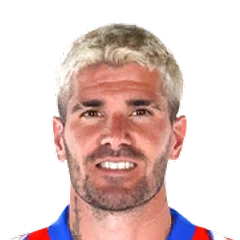
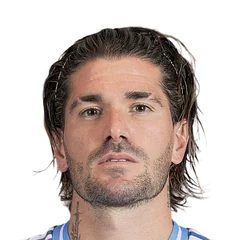
Cambios

diff --git a/index.html b/index.html
@@ -13,23 +13,264 @@
     <div class="hero-bg"></div>
     <div class="hero-content">
       <h1 class="hero-title">PES 6 Stats <span class="hero-accent">Database</span></h1>
-      <p class="hero-sub">Utiliza nuestra herramienta personal de estadisticas de jugadores para tu personalizar tu parche</p>
-      <a href="#cards" class="hero-btn">Explorar equipos</a>
-      <br>
-      <a href="#cards" class="hero-btn">Jugador Aleatorio</a>
+      <p class="hero-sub">Utilizá nuestra herramienta personal de estadísticas de jugadores para personalizar tu parche</p>
+      <a href="#selecciones" class="hero-btn">Explorar equipos</a>
     </div>
   </header>
 
+  <!-- GRILLA DE SELECCIONES -->
+  <section id="selecciones" class="selecciones-section">
+    <h2 class="section-title">Mundial 2026</h2>
+    <div class="selecciones-grid">
 
-  <button onclick="imprimirCartasPais('Argentina')">Argentina</button>
-  <!-- <button onclick="imprimirCartasPais('Portugal')">Portugal</button> -->
+      <button class="seleccion-btn" onclick="imprimirCartasPais('Alemania')">
+        <img src="fotos/nacionalidades/Alemania.png" alt="Alemania" />
+        <span>Alemania</span>
+      </button>
 
+      <button class="seleccion-btn" onclick="imprimirCartasPais('Arabia Saudita')">
+        <img src="fotos/nacionalidades/Arabia Saudita.png" alt="Arabia Saudita" />
+        <span>Arabia Saudita</span>
+      </button>
+
+      <button class="seleccion-btn" onclick="imprimirCartasPais('Argelia')">
+        <img src="fotos/nacionalidades/Argelia.png" alt="Argelia" />
+        <span>Argelia</span>
+      </button>
+
+      <button class="seleccion-btn" onclick="imprimirCartasPais('Argentina')">
+        <img src="fotos/nacionalidades/Argentina.png" alt="Argentina" />
+        <span>Argentina</span>
+      </button>
+
+      <button class="seleccion-btn" onclick="imprimirCartasPais('Australia')">
+        <img src="fotos/nacionalidades/Australia.png" alt="Australia" />
+        <span>Australia</span>
+      </button>
+
+      <button class="seleccion-btn" onclick="imprimirCartasPais('Austria')">
+        <img src="fotos/nacionalidades/Austria.png" alt="Austria" />
+        <span>Austria</span>
+      </button>
+
+      <button class="seleccion-btn" onclick="imprimirCartasPais('Belgica')">
+        <img src="fotos/nacionalidades/Belgica.png" alt="Bélgica" />
+        <span>Bélgica</span>
+      </button>
+
+      <button class="seleccion-btn" onclick="imprimirCartasPais('Bosnia')">
+        <img src="fotos/nacionalidades/Bosnia.png" alt="Bosnia" />
+        <span>Bosnia</span>
+      </button>
+
+      <button class="seleccion-btn" onclick="imprimirCartasPais('Brasil')">
+        <img src="fotos/nacionalidades/Brasil.png" alt="Brasil" />
+        <span>Brasil</span>
+      </button>
+
+      <button class="seleccion-btn" onclick="imprimirCartasPais('Cabo Verde')">
+        <img src="fotos/nacionalidades/Cabo Verde.png" alt="Cabo Verde" />
+        <span>Cabo Verde</span>
+      </button>
+
+      <button class="seleccion-btn" onclick="imprimirCartasPais('Canada')">
+        <img src="fotos/nacionalidades/Canada.png" alt="Canadá" />
+        <span>Canadá</span>
+      </button>
+
+      <button class="seleccion-btn" onclick="imprimirCartasPais('Colombia')">
+        <img src="fotos/nacionalidades/Colombia.png" alt="Colombia" />
+        <span>Colombia</span>
+      </button>
+
+      <button class="seleccion-btn" onclick="imprimirCartasPais('Congo')">
+        <img src="fotos/nacionalidades/Congo.png" alt="Congo" />
+        <span>Congo</span>
+      </button>
+
+      <button class="seleccion-btn" onclick="imprimirCartasPais('Corea del Sur')">
+        <img src="fotos/nacionalidades/Corea del Sur.png" alt="Corea del Sur" />
+        <span>Corea del Sur</span>
+      </button>
+
+      <button class="seleccion-btn" onclick="imprimirCartasPais('Costa de Marfil')">
+        <img src="fotos/nacionalidades/Costa de Marfil.png" alt="Costa de Marfil" />
+        <span>Costa de Marfil</span>
+      </button>
+
+      <button class="seleccion-btn" onclick="imprimirCartasPais('Croacia')">
+        <img src="fotos/nacionalidades/Croacia.png" alt="Croacia" />
+        <span>Croacia</span>
+      </button>
+
+      <button class="seleccion-btn" onclick="imprimirCartasPais('Curazao')">
+        <img src="fotos/nacionalidades/Curazao.png" alt="Curazao" />
+        <span>Curazao</span>
+      </button>
+
+      <button class="seleccion-btn" onclick="imprimirCartasPais('Ecuador')">
+        <img src="fotos/nacionalidades/Ecuador.png" alt="Ecuador" />
+        <span>Ecuador</span>
+      </button>
+
+      <button class="seleccion-btn" onclick="imprimirCartasPais('Egipto')">
+        <img src="fotos/nacionalidades/Egipto.png" alt="Egipto" />
+        <span>Egipto</span>
+      </button>
+
+      <button class="seleccion-btn" onclick="imprimirCartasPais('Escocia')">
+        <img src="fotos/nacionalidades/Escocia.png" alt="Escocia" />
+        <span>Escocia</span>
+      </button>
+
+      <button class="seleccion-btn" onclick="imprimirCartasPais('España')">
+        <img src="fotos/nacionalidades/España.png" alt="España" />
+        <span>España</span>
+      </button>
+
+      <button class="seleccion-btn" onclick="imprimirCartasPais('Estados Unidos')">
+        <img src="fotos/nacionalidades/Estados Unidos.png" alt="Estados Unidos" />
+        <span>Estados Unidos</span>
+      </button>
+
+      <button class="seleccion-btn" onclick="imprimirCartasPais('Francia')">
+        <img src="fotos/nacionalidades/Francia.png" alt="Francia" />
+        <span>Francia</span>
+      </button>
+
+      <button class="seleccion-btn" onclick="imprimirCartasPais('Ghana')">
+        <img src="fotos/nacionalidades/Ghana.png" alt="Ghana" />
+        <span>Ghana</span>
+      </button>
+
+      <button class="seleccion-btn" onclick="imprimirCartasPais('Haiti')">
+        <img src="fotos/nacionalidades/Haiti.png" alt="Haití" />
+        <span>Haití</span>
+      </button>
+
+      <button class="seleccion-btn" onclick="imprimirCartasPais('Iran')">
+        <img src="fotos/nacionalidades/Iran.png" alt="Irán" />
+        <span>Irán</span>
+      </button>
+
+      <button class="seleccion-btn" onclick="imprimirCartasPais('Iraq')">
+        <img src="fotos/nacionalidades/Iraq.png" alt="Iraq" />
+        <span>Iraq</span>
+      </button>
+
+      <button class="seleccion-btn" onclick="imprimirCartasPais('Japon')">
+        <img src="fotos/nacionalidades/Japon.png" alt="Japón" />
+        <span>Japón</span>
+      </button>
+
+      <button class="seleccion-btn" onclick="imprimirCartasPais('Jordania')">
+        <img src="fotos/nacionalidades/Jordania.png" alt="Jordania" />
+        <span>Jordania</span>
+      </button>
+
+      <button class="seleccion-btn" onclick="imprimirCartasPais('Marruecos')">
+        <img src="fotos/nacionalidades/Marruecos.png" alt="Marruecos" />
+        <span>Marruecos</span>
+      </button>
+
+      <button class="seleccion-btn" onclick="imprimirCartasPais('Mexico')">
+        <img src="fotos/nacionalidades/Mexico.png" alt="México" />
+        <span>México</span>
+      </button>
+
+      <button class="seleccion-btn" onclick="imprimirCartasPais('Noruega')">
+        <img src="fotos/nacionalidades/Noruega.png" alt="Noruega" />
+        <span>Noruega</span>
+      </button>
+
+      <button class="seleccion-btn" onclick="imprimirCartasPais('Nueva Zelanda')">
+        <img src="fotos/nacionalidades/Nueva Zelanda.png" alt="Nueva Zelanda" />
+        <span>Nueva Zelanda</span>
+      </button>
+
+      <button class="seleccion-btn" onclick="imprimirCartasPais('Paises Bajos')">
+        <img src="fotos/nacionalidades/Paises Bajos.png" alt="Países Bajos" />
+        <span>Países Bajos</span>
+      </button>
+
+      <button class="seleccion-btn" onclick="imprimirCartasPais('Panama')">
+        <img src="fotos/nacionalidades/Panama.png" alt="Panamá" />
+        <span>Panamá</span>
+      </button>
+
+      <button class="seleccion-btn" onclick="imprimirCartasPais('Paraguay')">
+        <img src="fotos/nacionalidades/Paraguay.png" alt="Paraguay" />
+        <span>Paraguay</span>
+      </button>
+
+      <button class="seleccion-btn" onclick="imprimirCartasPais('Portugal')">
+        <img src="fotos/nacionalidades/Portugal.png" alt="Portugal" />
+        <span>Portugal</span>
+      </button>
+
+      <button class="seleccion-btn" onclick="imprimirCartasPais('Qatar')">
+        <img src="fotos/nacionalidades/Qatar.png" alt="Qatar" />
+        <span>Qatar</span>
+      </button>
+
+      <button class="seleccion-btn" onclick="imprimirCartasPais('Reino Unido')">
+        <img src="fotos/nacionalidades/Reino Unido.png" alt="Reino Unido" />
+        <span>Reino Unido</span>
+      </button>
+
+      <button class="seleccion-btn" onclick="imprimirCartasPais('Republica Checa')">
+        <img src="fotos/nacionalidades/Republica Checa.png" alt="República Checa" />
+        <span>República Checa</span>
+      </button>
+
+      <button class="seleccion-btn" onclick="imprimirCartasPais('Senegal')">
+        <img src="fotos/nacionalidades/Senegal.png" alt="Senegal" />
+        <span>Senegal</span>
+      </button>
+
+      <button class="seleccion-btn" onclick="imprimirCartasPais('Sudafrica')">
+        <img src="fotos/nacionalidades/Sudafrica.png" alt="Sudáfrica" />
+        <span>Sudáfrica</span>
+      </button>
+
+      <button class="seleccion-btn" onclick="imprimirCartasPais('Suecia')">
+        <img src="fotos/nacionalidades/Suecia.png" alt="Suecia" />
+        <span>Suecia</span>
+      </button>
+
+      <button class="seleccion-btn" onclick="imprimirCartasPais('Suiza')">
+        <img src="fotos/nacionalidades/Suiza.png" alt="Suiza" />
+        <span>Suiza</span>
+      </button>
+
+      <button class="seleccion-btn" onclick="imprimirCartasPais('Tunez')">
+        <img src="fotos/nacionalidades/Tunez.png" alt="Túnez" />
+        <span>Túnez</span>
+      </button>
+
+      <button class="seleccion-btn" onclick="imprimirCartasPais('Turquia')">
+        <img src="fotos/nacionalidades/Turquia.png" alt="Turquía" />
+        <span>Turquía</span>
+      </button>
+
+      <button class="seleccion-btn" onclick="imprimirCartasPais('Uruguay')">
+        <img src="fotos/nacionalidades/Uruguay.png" alt="Uruguay" />
+        <span>Uruguay</span>
+      </button>
+
+      <button class="seleccion-btn" onclick="imprimirCartasPais('Uzbekistan')">
+        <img src="fotos/nacionalidades/Uzbekistan.png" alt="Uzbekistán" />
+        <span>Uzbekistán</span>
+      </button>
+
+    </div>
+  </section>
 
   <!-- GRID DE CARDS -->
   <section id="cards" class="cards-section">
-    <h2 class="section-title">Jugadores mejor evaluados</h2>
+    <h2 class="section-title" id="cards-title">Jugadores mejor evaluados</h2>
     <div class="cards-grid" id="cards-grid">
-      <!-- Las cards se generan dinámicamente desde script.js -->
+      <!-- Las cards se generan dinámicamente desde FIFACard.js -->
     </div>
   </section>
 

diff --git a/styles.css b/styles.css
@@ -726,3 +726,65 @@ body.pv-locked {
   .pv-name { font-size: 14px; }
   .pv-content { padding: 0 10px; }
 }
+
+/* ══════════════════════════════════════════════════════════════════
+   SELECCIONES — grilla de botones de selecciones del mundial
+   ══════════════════════════════════════════════════════════════════ */
+
+.selecciones-section {
+  padding: 40px 24px 60px;
+  max-width: 1400px;
+  margin: 0 auto;
+}
+
+.selecciones-grid {
+  display: grid;
+  grid-template-columns: repeat(auto-fill, minmax(110px, 1fr));
+  gap: 14px;
+}
+
+.seleccion-btn {
+  display: flex;
+  flex-direction: column;
+  align-items: center;
+  gap: 8px;
+  padding: 12px 8px;
+  background: #1e1e1e;
+  border: 1px solid #333;
+  border-radius: 10px;
+  cursor: pointer;
+  transition: background 0.15s, transform 0.15s, border-color 0.15s;
+  color: #ccc;
+  font-family: Arial, sans-serif;
+  font-size: 11px;
+  font-weight: 700;
+  text-align: center;
+  line-height: 1.3;
+}
+
+.seleccion-btn:hover {
+  background: #2a2a2a;
+  border-color: #f0d000;
+  color: #f0d000;
+  transform: translateY(-3px);
+}
+
+.seleccion-btn img {
+  width: 64px;
+  height: 42px;
+  object-fit: cover;
+  border-radius: 5px;
+  box-shadow: 0 2px 8px rgba(0,0,0,0.4);
+}
+
+@media (max-width: 600px) {
+  .selecciones-grid {
+    grid-template-columns: repeat(auto-fill, minmax(85px, 1fr));
+    gap: 10px;
+  }
+  .seleccion-btn img {
+    width: 50px;
+    height: 33px;
+  }
+  .seleccion-btn { padding: 8px 4px; font-size: 10px; }
+}

diff --git a/Fifacard.js b/Fifacard.js
@@ -286,6 +286,7 @@ function limpiarContenedor()
 async function imprimirCartas(cartas)
 {
   setTimeout(() => {
+    cartas.sort((c1,c2) => c2.rating - c1.rating)
       cartas.forEach(stats => {
       new FIFACard({
         ...stats,
@@ -303,7 +304,7 @@ window.JUGADORES = JUGADORES; // necesario para que la carta pueda buscar el jug
 
 async function crearCartas(pais)
 {
-  const cartas = []
+  let cartas = []
 
   JUGADORES.forEach( async jugador => {
     if(pais == "cualquiera" || pais == jugador.nationality)
@@ -313,8 +314,10 @@ async function crearCartas(pais)
       cartas.push(carta);
     }
   })
+
   return cartas
 }
+
 
 window.imprimirCartasPais = async (pais) => {
   await limpiarContenedor()
@@ -322,6 +325,6 @@ window.imprimirCartasPais = async (pais) => {
   await imprimirCartas(cartas);
 };
 
-const cartas = await crearCartas("cualquiera")
+const cartas = await crearCartas("Argentina")
 await imprimirCartas(cartas);
 //limpiarContenedor();

diff --git a/jugador.js b/jugador.js
@@ -184,6 +184,9 @@ export default class PES6Player {
       case "CM":
         values = [4, 5, 2, 9, 2, 2, 6, 0, 7, 2, 15, 3, 13, 3, 2, 3, 6, 0, 0, 15, 1, 0,0];
         break;
+      case "DM":
+        values = [0, 16, 5, 14, 4, 4, 12, 1, 0, 0, 10,3, 12, 6, 0, 0, 0, 2, 3, 8, 0, 0];
+        break;
       case "SM":
         values = [5, 0, 0, 6, 7, 7, 3, 3, 12, 6, 7,3, 8, 5, 3, 2, 4, 0, 0, 12, 7, 0,0];
         break;